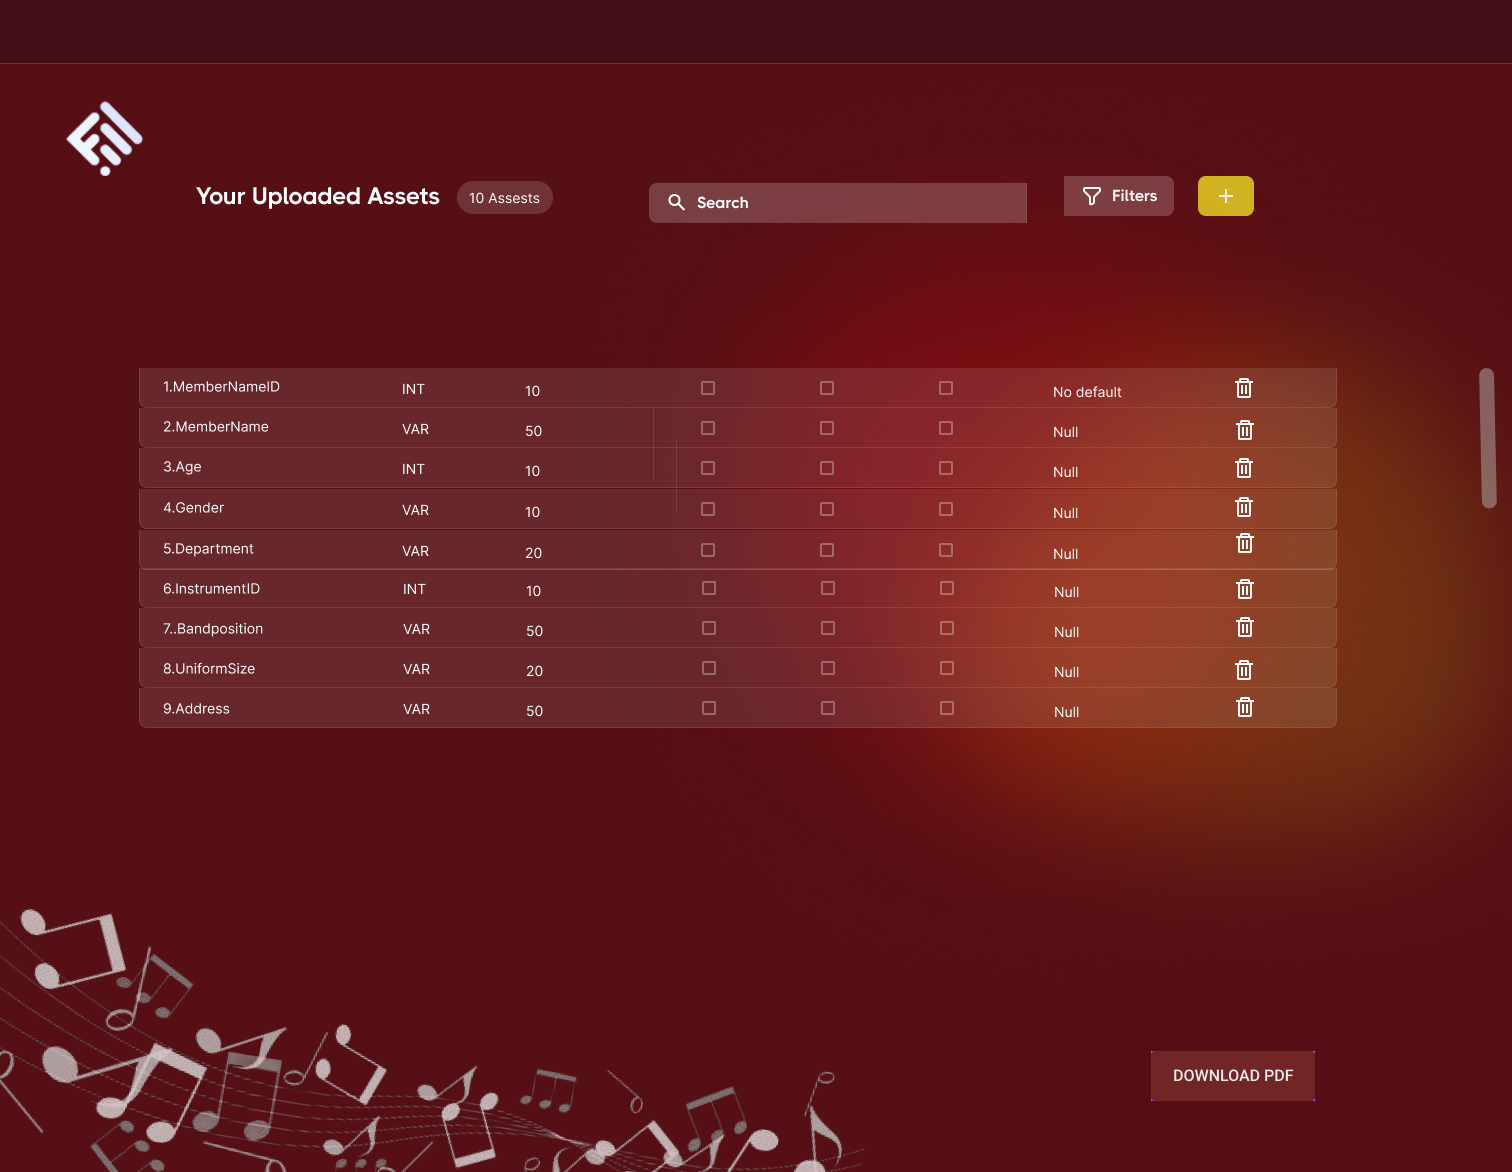
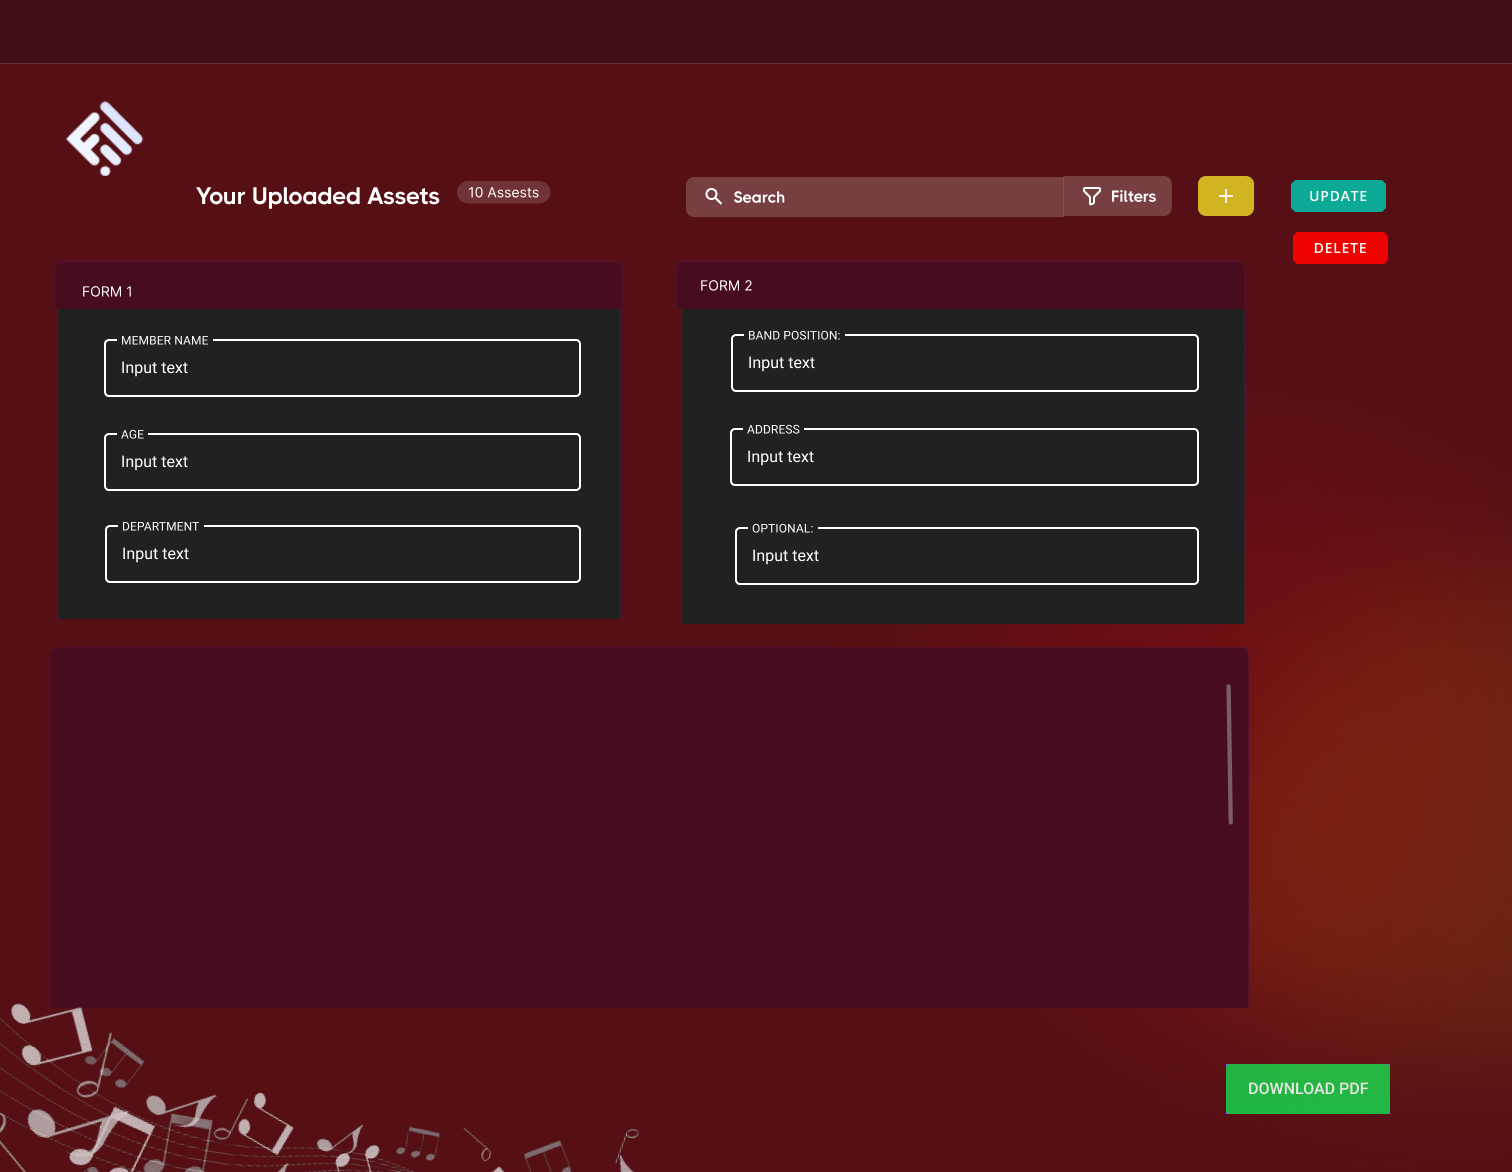
CHANGE

diff --git a/BAND.py b/BAND.py
@@ -1,50 +1,64 @@
 import tkinter as tk
 from PIL import Image, ImageTk
 import ttkbootstrap as ttk
+from tkinter import Tk, Button,Entry,Frame
 
 class CustomApp:
     def __init__(self, master):
         self.master = master
         self.master.title("CNSC Marching Band")
-        self.master.geometry("1200x650")
+        self.master.geometry("800x700")
         self.master.resizable(False, False)
 
         self.create_widgets_background()
-
-        # Create ttkbootstrap styled widgets
         self.create_widgets_buttons()
-
         self.create_widgets_entry()
+        self.create_widgets_frames()
 
     def create_widgets_background(self):
-        # Load the background image
         original_image = Image.open("Dashboard.png")
-
-        # Resize the image while maintaining the aspect ratio
-        width, height = 1200, 650
+        width, height = 800, 700
         resized_image = original_image.resize((width, height), Image.LANCZOS)
-
-        # Convert the Image object to PhotoImage
         self.bg_image = ImageTk.PhotoImage(resized_image)
 
-        # Create a Canvas widget to place the background image
         self.canvas = tk.Canvas(self.master, width=width, height=height)
         self.canvas.pack(fill="both", expand=True)
-
-        # Place the resized background image on the Canvas
         self.canvas.create_image(0, 0, anchor="nw", image=self.bg_image)
 
     def create_widgets_buttons(self):
-        self.test_button = ttk.Button(self.canvas, text="hello", bootstyle="blue-outline")
-        self.test_button.pack(pady=10)
+        original_image = Image.open("FILTER.png")
+        resized_image = original_image.resize((60, 20), Image.LANCZOS)
+        self.search_image = ImageTk.PhotoImage(resized_image)
+
+        self.search_button = Button(self.canvas, image=self.search_image, bd=0, height=20, width=60, compound='center')
+        self.search_button.place(x=567, y=106)
+
+
+
 
     def create_widgets_entry(self):
-        # Create the entry widget with a custom background color
-        self.SEARCH_ENTRY = ttk.Entry(self.canvas, width=47, bootstyle="info")
-        self.SEARCH_ENTRY.place(x=520, y=100)
+        default_value = "Search"
 
-        # Configure the background color
-        self.SEARCH_ENTRY.configure(style="info.TEntry", background="maroon")
+        self.SEARCH_ENTRY = Entry(self.canvas, width=22, font=('Arial', 11, "bold"), bg="#993333",fg="white")
+        self.SEARCH_ENTRY.place(x=385, y=106)
+
+        # Set default value
+        self.SEARCH_ENTRY.insert(0, default_value)
+        self.SEARCH_ENTRY.bind("<FocusIn>", self.clear_default_value)
+
+
+    #FRAMES HERE
+    def create_widgets_frames(self):
+        self.FORM_1 = tk.Frame(self.master, bg="black")
+        self.FORM_1.place(x=29, y=185, width=300, height=185)
+
+        self.FORM_2 = tk.Frame(self.master, bg="black")
+        self.FORM_2.place(x=358, y=185, width=300, height=185)
+
+    def clear_default_value(self, event):
+        # Clear default value when the entry is clicked
+        if self.SEARCH_ENTRY.get() == "Search":
+            self.SEARCH_ENTRY.delete(0, tk.END)
 
     def run(self):
         self.master.mainloop()
